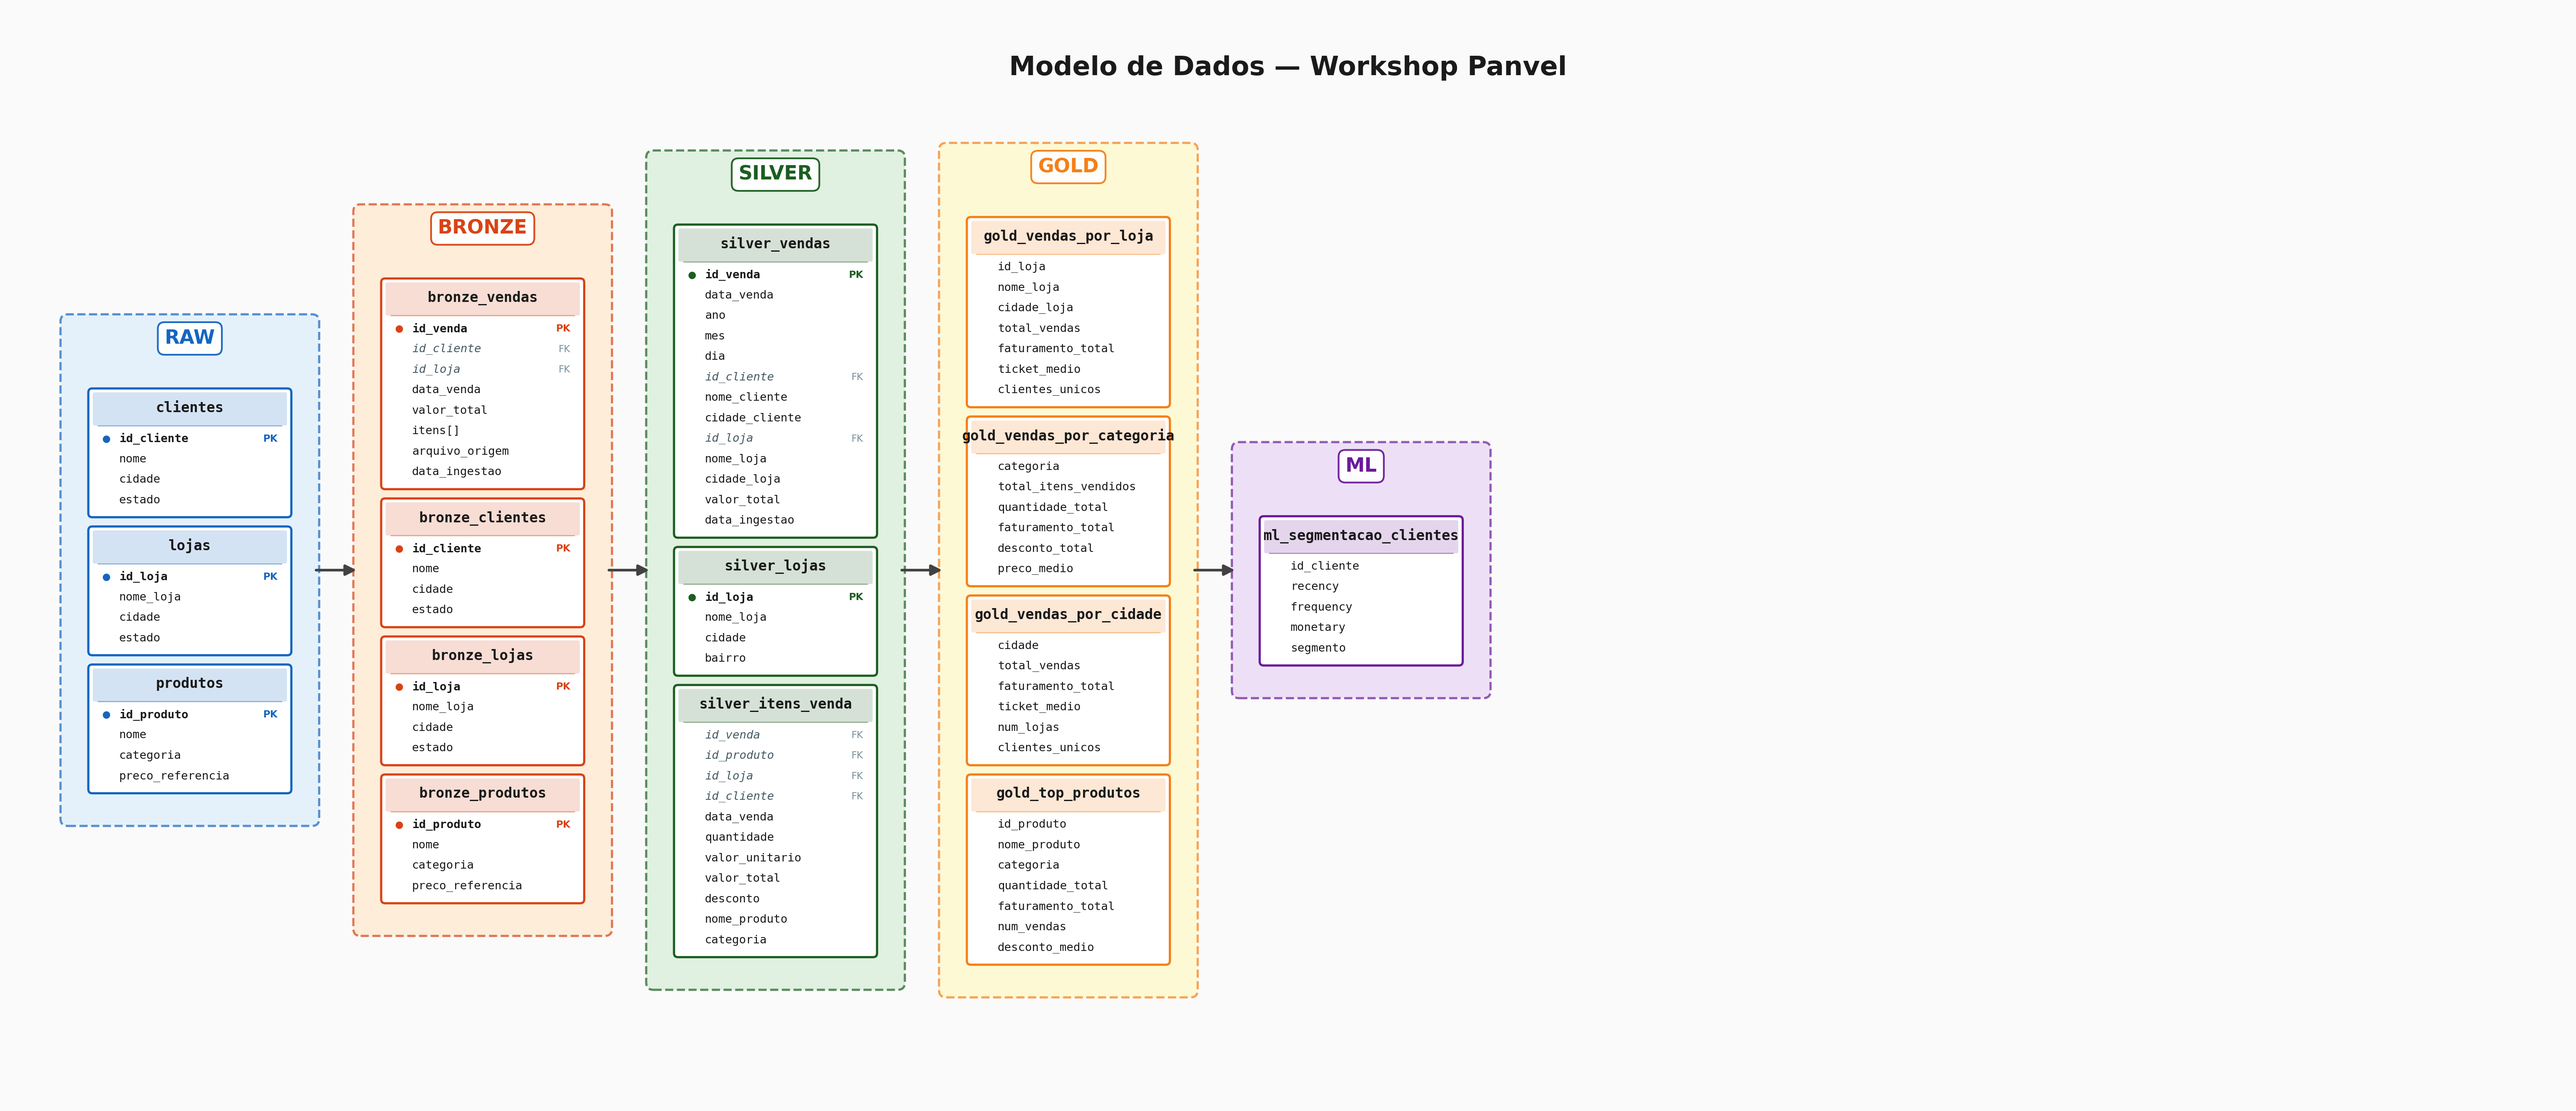
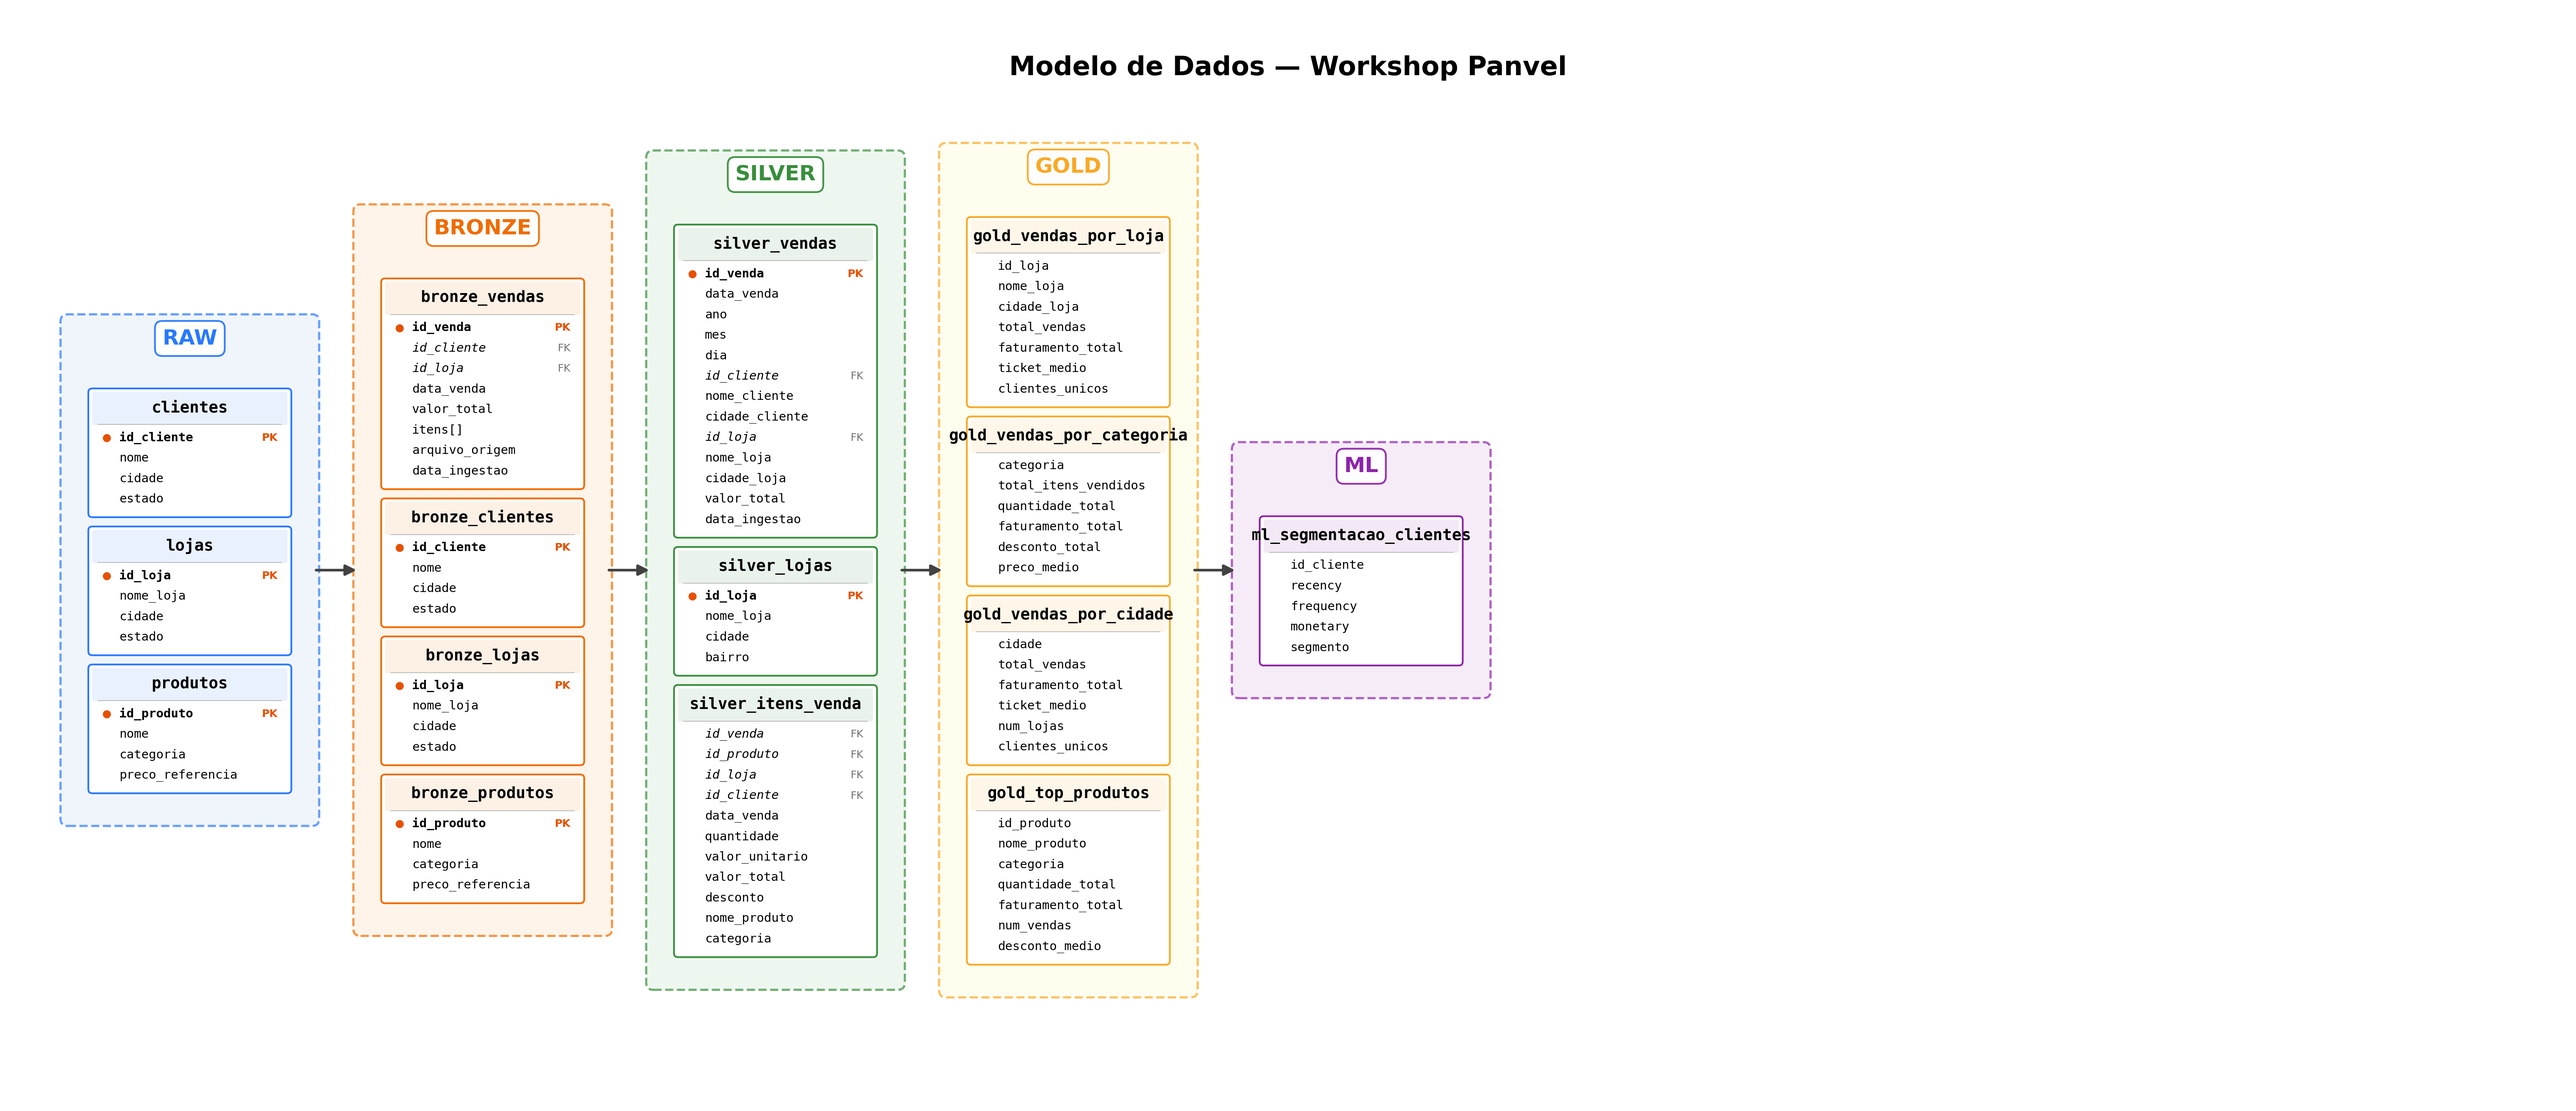
Fix ER diagram contrast: black text on white, lighter header bands

diff --git a/images/generate_er.py b/images/generate_er.py
@@ -12,17 +12,17 @@ from matplotlib.patches import FancyBboxPatch
 FIG_W, FIG_H = 52, 22
 DPI = 150
 TITLE = "Modelo de Dados — Workshop Panvel"
-TEXT_COLOR = "#1A1A1A"
-BG_COLOR = "#FAFAFA"
+TEXT_COLOR = "#000000"
+BG_COLOR = "#FFFFFF"
 
-FONT_LAYER = 22
-FONT_TABLE = 16
-FONT_COL = 13
-FONT_TAG = 11
+FONT_LAYER = 24
+FONT_TABLE = 18
+FONT_COL = 14
+FONT_TAG = 12
 
 # Layer definitions
 LAYERS = [
-    ("RAW", "#DCEEFB", "#1565C0", [
+    ("RAW", "#EAF2FB", "#2979FF", [
         ("clientes", [
             ("id_cliente", "PK"), ("nome", ""), ("cidade", ""), ("estado", ""),
         ]),
@@ -33,7 +33,7 @@ LAYERS = [
             ("id_produto", "PK"), ("nome", ""), ("categoria", ""), ("preco_referencia", ""),
         ]),
     ]),
-    ("BRONZE", "#FFE8CC", "#D84315", [
+    ("BRONZE", "#FFF0E0", "#EF6C00", [
         ("bronze_vendas", [
             ("id_venda", "PK"), ("id_cliente", "FK"), ("id_loja", "FK"),
             ("data_venda", ""), ("valor_total", ""), ("itens[]", ""),
@@ -49,7 +49,7 @@ LAYERS = [
             ("id_produto", "PK"), ("nome", ""), ("categoria", ""), ("preco_referencia", ""),
         ]),
     ]),
-    ("SILVER", "#D5ECD7", "#1B5E20", [
+    ("SILVER", "#E8F5E9", "#388E3C", [
         ("silver_vendas", [
             ("id_venda", "PK"), ("data_venda", ""), ("ano", ""), ("mes", ""), ("dia", ""),
             ("id_cliente", "FK"), ("nome_cliente", ""), ("cidade_cliente", ""),
@@ -65,7 +65,7 @@ LAYERS = [
             ("valor_total", ""), ("desconto", ""), ("nome_produto", ""), ("categoria", ""),
         ]),
     ]),
-    ("GOLD", "#FFF9C4", "#F57F17", [
+    ("GOLD", "#FFFDE7", "#F9A825", [
         ("gold_vendas_por_loja", [
             ("id_loja", ""), ("nome_loja", ""), ("cidade_loja", ""),
             ("total_vendas", ""), ("faturamento_total", ""), ("ticket_medio", ""), ("clientes_unicos", ""),
@@ -83,7 +83,7 @@ LAYERS = [
             ("quantidade_total", ""), ("faturamento_total", ""), ("num_vendas", ""), ("desconto_medio", ""),
         ]),
     ]),
-    ("ML", "#E8D5F5", "#6A1B9A", [
+    ("ML", "#F3E5F5", "#8E24AA", [
         ("ml_segmentacao_clientes", [
             ("id_cliente", ""), ("recency", ""), ("frequency", ""), ("monetary", ""), ("segmento", ""),
         ]),
@@ -146,52 +146,51 @@ def draw_table(ax, tbl, border_color):
     # White box with colored border
     box = FancyBboxPatch(
         (x, y), w, h, boxstyle="round,pad=0.08",
-        facecolor="white", edgecolor=border_color, linewidth=2.5, zorder=3,
+        facecolor="white", edgecolor=border_color, linewidth=2.0, zorder=3,
     )
     ax.add_patch(box)
 
-    # Header band
+    # Header band - very light tint
     hdr = FancyBboxPatch(
-        (x + 0.05, y + h - HEADER_HEIGHT - 0.04), w - 0.10, HEADER_HEIGHT,
+        (x + 0.04, y + h - HEADER_HEIGHT - 0.03), w - 0.08, HEADER_HEIGHT,
         boxstyle="round,pad=0.04",
-        facecolor=border_color, edgecolor="none", alpha=0.18, zorder=4,
+        facecolor=border_color, edgecolor="none", alpha=0.10, zorder=4,
     )
     ax.add_patch(hdr)
 
-    # Table name
+    # Table name - black bold text
     ax.text(
         x + w / 2, y + h - HEADER_HEIGHT / 2 - 0.02,
         tbl["name"], ha="center", va="center",
-        fontsize=FONT_TABLE, fontweight="bold", color=TEXT_COLOR,
+        fontsize=FONT_TABLE, fontweight="bold", color="#000000",
         fontfamily="monospace", zorder=5,
     )
 
     # Separator
-    sep_y = y + h - HEADER_HEIGHT - 0.08
+    sep_y = y + h - HEADER_HEIGHT - 0.06
     ax.plot([x + 0.12, x + w - 0.12], [sep_y, sep_y],
-            color=border_color, linewidth=1.2, alpha=0.5, zorder=4)
+            color="#BDBDBD", linewidth=1.0, zorder=4)
 
     # Columns
     cy = sep_y - ROW_HEIGHT * 0.65
     for col_name, tag in tbl["cols"]:
         if tag == "PK":
-            marker = "●"
-            ax.text(x + 0.2, cy, marker, ha="left", va="center",
-                    fontsize=FONT_TAG, color=border_color, fontweight="bold", zorder=5)
+            ax.text(x + 0.2, cy, "●", ha="left", va="center",
+                    fontsize=FONT_TAG, color="#E65100", fontweight="bold", zorder=5)
             ax.text(x + 0.55, cy, col_name, ha="left", va="center",
-                    fontsize=FONT_COL, color=TEXT_COLOR, fontweight="bold",
+                    fontsize=FONT_COL, color="#000000", fontweight="bold",
                     fontfamily="monospace", zorder=5)
             ax.text(x + w - 0.2, cy, "PK", ha="right", va="center",
-                    fontsize=FONT_TAG, color=border_color, fontweight="bold", zorder=5)
+                    fontsize=FONT_TAG, color="#E65100", fontweight="bold", zorder=5)
         elif tag == "FK":
             ax.text(x + 0.55, cy, col_name, ha="left", va="center",
-                    fontsize=FONT_COL, color="#455A64",
+                    fontsize=FONT_COL, color="#000000",
                     fontfamily="monospace", fontstyle="italic", zorder=5)
             ax.text(x + w - 0.2, cy, "FK", ha="right", va="center",
-                    fontsize=FONT_TAG, color="#78909C", zorder=5)
+                    fontsize=FONT_TAG, color="#757575", zorder=5)
         else:
             ax.text(x + 0.55, cy, col_name, ha="left", va="center",
-                    fontsize=FONT_COL, color=TEXT_COLOR,
+                    fontsize=FONT_COL, color="#000000",
                     fontfamily="monospace", zorder=5)
         cy -= ROW_HEIGHT
 
@@ -233,8 +232,8 @@ def draw_arrows(ax, layout):
 
 def main():
     fig, ax = plt.subplots(1, 1, figsize=(FIG_W, FIG_H), dpi=DPI)
-    fig.patch.set_facecolor(BG_COLOR)
-    ax.set_facecolor(BG_COLOR)
+    fig.patch.set_facecolor("white")
+    ax.set_facecolor("white")
     ax.set_xlim(0, FIG_W)
     ax.set_ylim(0, FIG_H)
     ax.set_aspect("equal")
@@ -257,7 +256,7 @@ def main():
     draw_arrows(ax, layout)
 
     out = "/Users/juliandro.figueiro/workshop-panvel/images/modelo_er.png"
-    fig.savefig(out, dpi=DPI, bbox_inches="tight", facecolor=BG_COLOR, pad_inches=0.3)
+    fig.savefig(out, dpi=DPI, bbox_inches="tight", facecolor="white", pad_inches=0.3)
     plt.close(fig)
     print(f"Saved: {out}")
 
